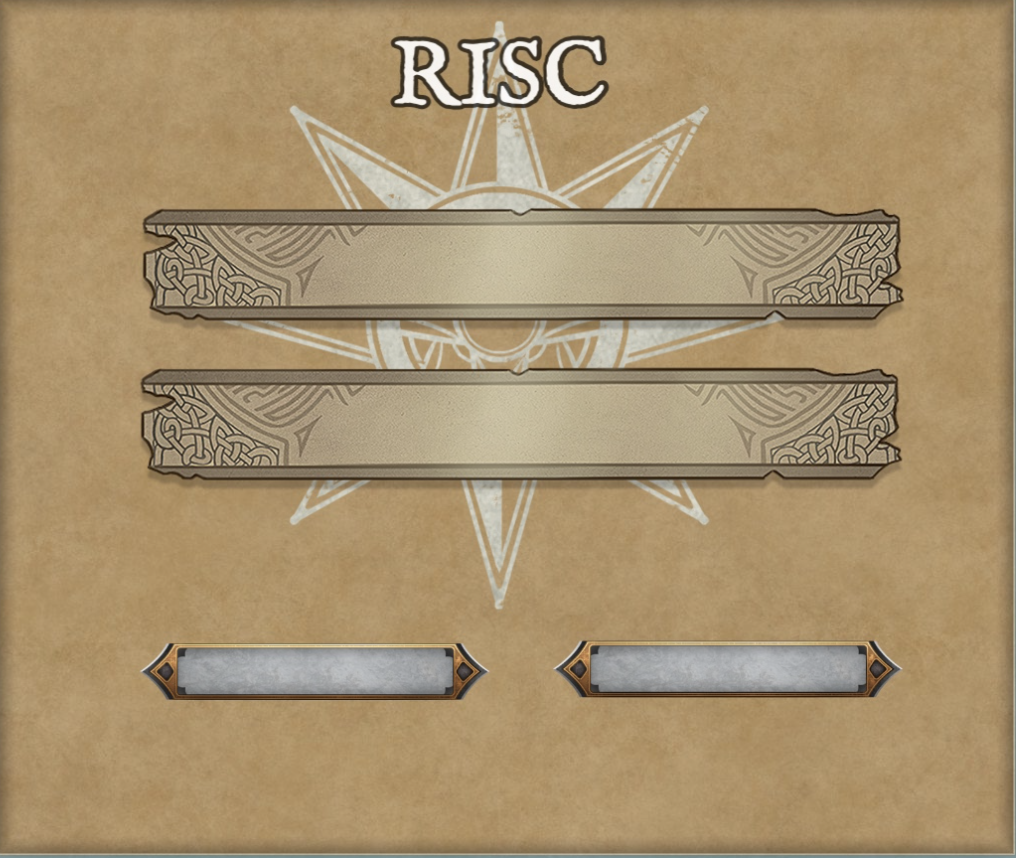
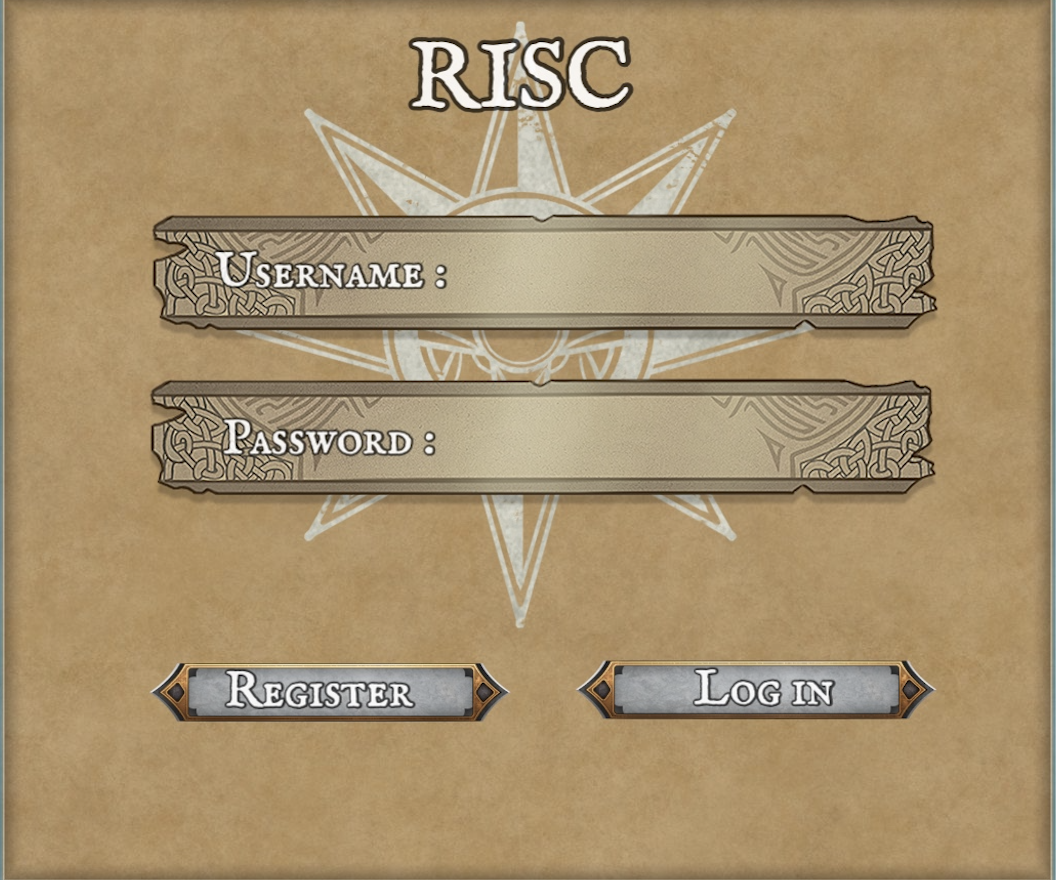
add login and fix test code

diff --git a/server/src/test/java/ece651/riskgame/server/RiskGameTest.java b/server/src/test/java/ece651/riskgame/server/RiskGameTest.java
@@ -125,7 +125,7 @@ public class RiskGameTest {
     ObjectInputStream ois = new ObjectInputStream(s1.getInputStream());
     ObjectOutputStream oos = new ObjectOutputStream(s1.getOutputStream());
     String color = (String) ois.readObject();
-    assertEquals("Red", color);
+    assertEquals("red", color);
     s1.close();
     th.interrupt();
     th.join();
@@ -158,8 +158,8 @@ public class RiskGameTest {
     ObjectOutputStream oos2 = new ObjectOutputStream(s2.getOutputStream());
     String color = (String) ois.readObject();
     String color2 = (String) ois2.readObject();
-    assertTrue(color.equals("Red") || color.equals("Blue"));
-    assertTrue(color2.equals("Red") || color2.equals("Blue")); // The order of Red and Blue is not as expected
+    assertTrue(color.equals("red") || color.equals("blue"));
+    assertTrue(color2.equals("red") || color2.equals("blue")); // The order of Red and Blue is not as expected
     s1.close();
     s2.close();
     th.interrupt();
@@ -317,14 +317,14 @@ public class RiskGameTest {
 
     // do the move
     List<Move> moves0 = new ArrayList<Move>();
-    moves0.add(new Move(new BasicUnit(2), "Shanghai", "Shandong", "Red"));
+    moves0.add(new Move(new BasicUnit(2), "Shanghai", "Shandong", "red"));
 
     Whitebox.invokeMethod(riskGame, "doMoveAction", moves0);
     assertEquals(5, board.getTerritory("Shanghai").getUnits().get(0).getNum());
     assertEquals(5, board.getTerritory("Shandong").getUnits().get(0).getNum());
 
     List<Move> moves1 = new ArrayList<Move>();
-    moves1.add(new Move(new BasicUnit(2), "Shanghai", "Jiangsu", "Red"));
+    moves1.add(new Move(new BasicUnit(2), "Shanghai", "Jiangsu", "red"));
 
     Whitebox.invokeMethod(riskGame, "doMoveAction", moves1);
     assertEquals(3, board.getTerritory("Shanghai").getUnits().get(0).getNum());
@@ -349,15 +349,15 @@ public class RiskGameTest {
 
     // do the move
     List<Attack> attacks0 = new ArrayList<Attack>();
-    attacks0.add(new Attack(Mockito.spy(new BasicUnit(3)), "Shanghai", "Shandong", "Red"));
-    attacks0.add(new Attack(Mockito.spy(new BasicUnit(3)), "Shanghai", "Jiangsu", "Red"));
+    attacks0.add(new Attack(Mockito.spy(new BasicUnit(3)), "Shanghai", "Shandong", "red"));
+    attacks0.add(new Attack(Mockito.spy(new BasicUnit(3)), "Shanghai", "Jiangsu", "red"));
 
     Whitebox.invokeMethod(riskGame, "doAttackAction", attacks0);
     assertEquals(5, board.getTerritory("Shanghai").getUnits().get(0).getNum());
     assertEquals(5, board.getTerritory("Shandong").getUnits().get(0).getNum());
 
     List<Attack> attacks1 = new ArrayList<Attack>();
-    attacks1.add(new Attack(Mockito.spy(new BasicUnit(2)), "Shandong", "Jiangsu", "Blue"));
+    attacks1.add(new Attack(Mockito.spy(new BasicUnit(2)), "Shandong", "Jiangsu", "blue"));
 
     Whitebox.invokeMethod(riskGame, "doAttackAction", attacks1);
     assertEquals(3, board.getTerritory("Shandong").getUnits().get(0).getNum());
@@ -445,7 +445,7 @@ public class RiskGameTest {
     System.out.println("game start");
     // send actions, round 1
     List<Action> actions1 = new ArrayList<Action>();
-    actions1.add(new Move(new BasicUnit(5), "Jiangsu", "Shanghai", "Red"));
+    actions1.add(new Move(new BasicUnit(5), "Jiangsu", "Shanghai", "red"));
     oos1.writeObject(actions1);
     List<Action> actions2 = new ArrayList<Action>();
     oos2.writeObject(actions2);

diff --git a/server/src/test/java/ece651/riskgame/server/WorldTest.java b/server/src/test/java/ece651/riskgame/server/WorldTest.java
@@ -12,9 +12,9 @@ public class WorldTest {
   @Test
   public void test_AddClan() throws Exception {
     World w = new World(3);
-    assertEquals("Red", w.addClan());
-    assertEquals("Blue", w.addClan());
-    assertEquals("Green", w.addClan());
+    assertEquals("red", w.addClan());
+    assertEquals("blue", w.addClan());
+    assertEquals("green", w.addClan());
     //assertThrows(IllegalAccessException.class, ()->{w.addClan();});
   }
 
@@ -39,11 +39,11 @@ public class WorldTest {
     World w = new World(2);
     w.addClan();
     w.addClan();
-    Move m1 = new Move(new BasicUnit(), "Shanghai", "Jiangsu", "Red");
-    Move m2 = new Move(new BasicUnit(), "Shandong", "Fujian", "Blue");
-    Move m3 = new Move(new BasicUnit(), "Anhui", "Jiangsu", "Blue");
-    Move m4 = new Move(new BasicUnit(), "Anhui", "Jiangsu", "Red");
-    Move m5 = new Move(new BasicUnit(), "Anhui", "Anhui", "Blue");
+    Move m1 = new Move(new BasicUnit(), "Shanghai", "Jiangsu", "red");
+    Move m2 = new Move(new BasicUnit(), "Shandong", "Fujian", "blue");
+    Move m3 = new Move(new BasicUnit(), "Anhui", "Jiangsu", "blue");
+    Move m4 = new Move(new BasicUnit(), "Anhui", "Jiangsu", "red");
+    Move m5 = new Move(new BasicUnit(), "Anhui", "Anhui", "blue");
     assertNull(actionRuleChecker.checkAction(w, m1));
     assertNotNull(actionRuleChecker.checkAction(w, m2));
     assertNotNull(actionRuleChecker.checkAction(w, m3));

diff --git a/shared/src/main/java/ece651/riskgame/shared/UserInit.java b/shared/src/main/java/ece651/riskgame/shared/UserInit.java
@@ -1,0 +1,45 @@
+package ece651.riskgame.shared;
+
+import java.io.Serializable;
+
+public class UserInit implements Serializable {
+    private boolean is_login;
+    private String Username;
+    private String Password;
+
+    public UserInit(boolean is_login, String username, String password) {
+        this.is_login = is_login;
+        Username = username;
+        Password = password;
+    }
+
+    public UserInit() {
+        is_login = false;
+        Username = "";
+        Password = "";
+    }
+
+    public boolean isIs_login() {
+        return is_login;
+    }
+
+    public void setIs_login(boolean is_login) {
+        this.is_login = is_login;
+    }
+
+    public String getUsername() {
+        return Username;
+    }
+
+    public void setUsername(String username) {
+        Username = username;
+    }
+
+    public String getPassword() {
+        return Password;
+    }
+
+    public void setPassword(String password) {
+        Password = password;
+    }
+}

diff --git a/client/src/main/java/ece651/riskgame/client/controllers/LoginController.java b/client/src/main/java/ece651/riskgame/client/controllers/LoginController.java
@@ -1,0 +1,37 @@
+package ece651.riskgame.client.controllers;
+
+import javafx.event.ActionEvent;
+import javafx.fxml.FXML;
+import javafx.scene.control.PasswordField;
+import javafx.scene.control.TextField;
+import ece651.riskgame.shared.UserInit;
+
+public class LoginController {
+
+    @FXML
+    private PasswordField password;
+
+    @FXML
+    private TextField username;
+
+    private UserInit userInit;
+
+    public LoginController(UserInit userInit) {
+        this.userInit = userInit;
+    }
+
+    @FXML
+    void login(ActionEvent event) {
+        userInit.setIs_login(true);
+        userInit.setUsername(username.getText());
+        userInit.setPassword(password.getText());
+    }
+
+    @FXML
+    void register(ActionEvent event) {
+        userInit.setIs_login(false);
+        userInit.setUsername(username.getText());
+        userInit.setPassword(password.getText());
+    }
+
+}
